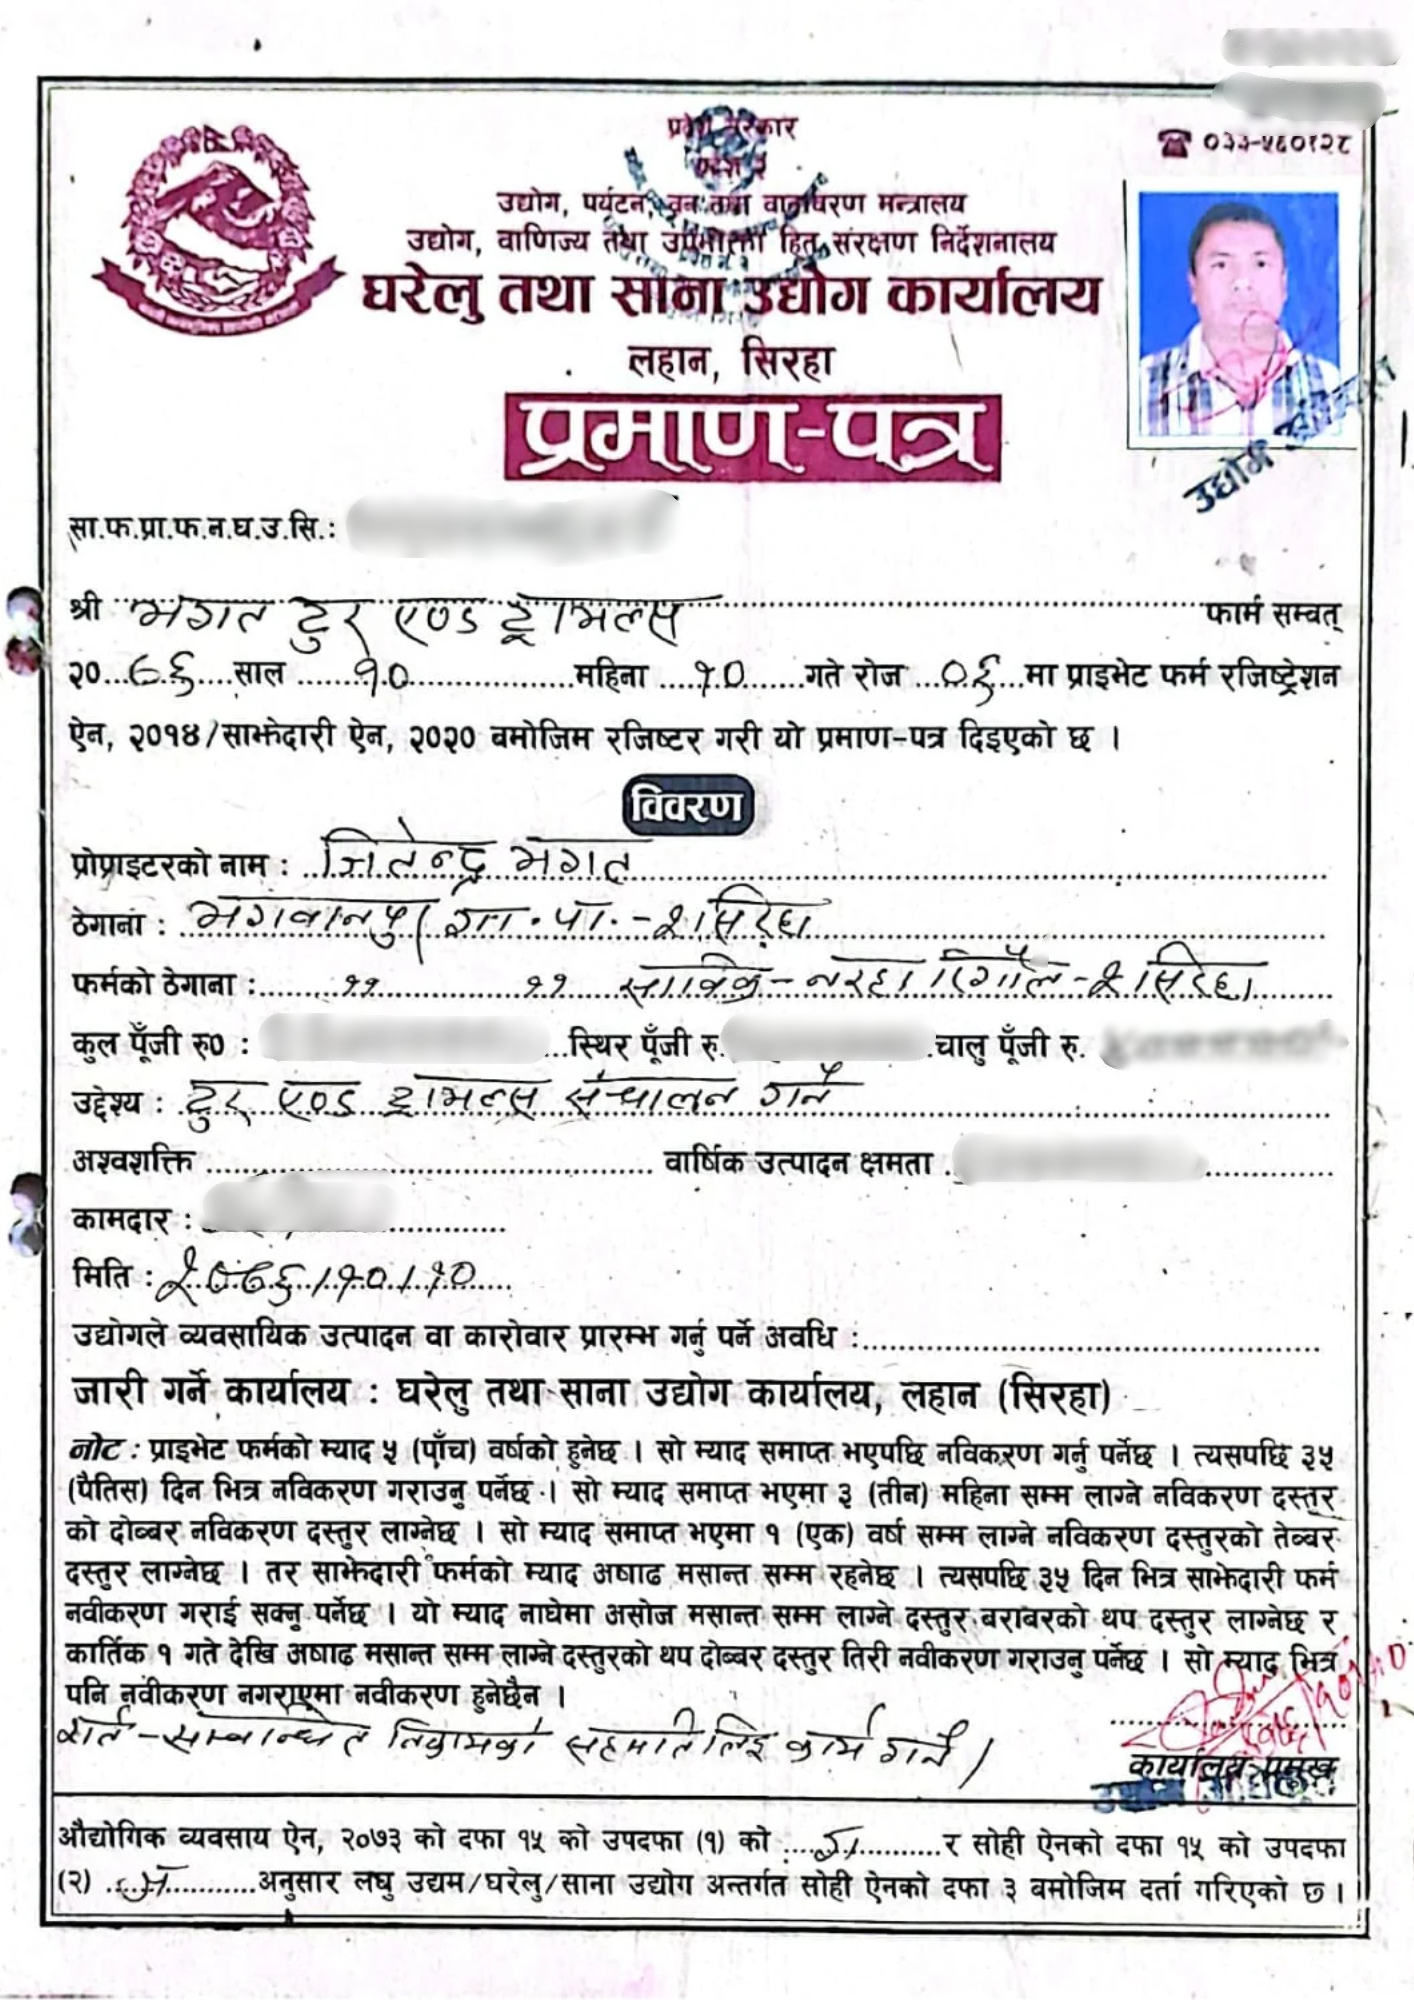
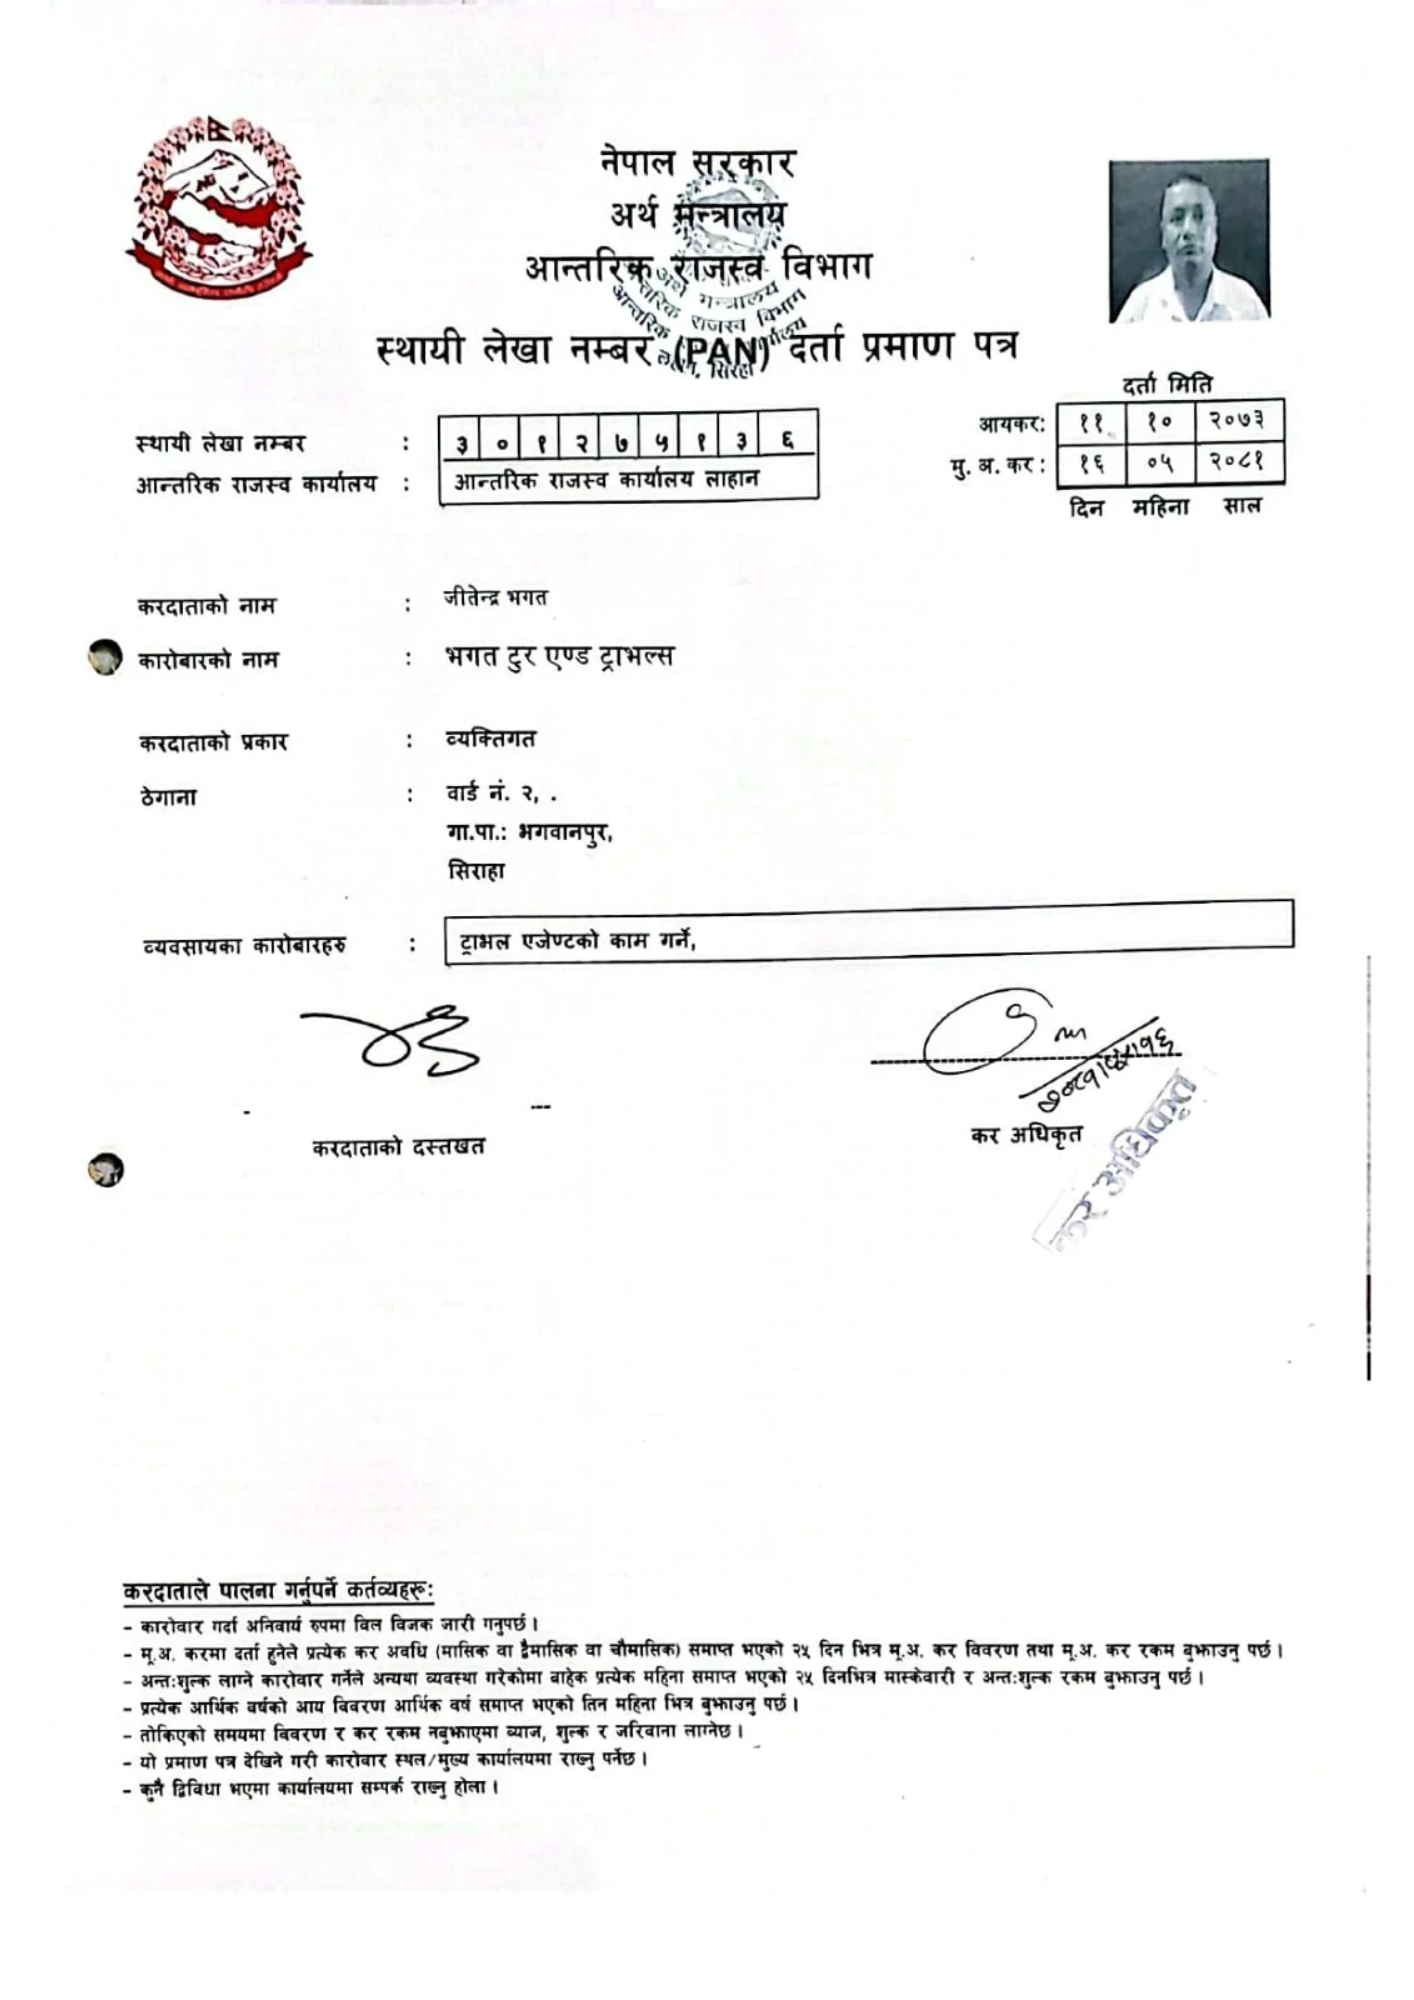
Optimized seo

diff --git a/index.html b/index.html
@@ -43,8 +43,8 @@
   <meta property="og:title" content="Bhagat Tour and Travels | Car Rental & Travel Agency in Lahan, Siraha" />
   <meta property="og:description"
     content="Looking for car rental in Lahan, Siraha? Bhagat Tour and Travels is a travel agency offering driver-based vehicle hire across Koshi, Madhesh, and Bagmati. Call 9804732000." />
-  <meta property="og:image" content="https://bhagattourandtravels.com.np/images/vehicle_image1-optimized.jpg" />
-  <meta property="og:image:alt" content="Bhagat Tour and Travels vehicle on a road in Nepal" />
+  <meta property="og:image" content="https://bhagattourandtravels.com.np/og-image.png" />
+  <meta property="og:image:alt" content="Bhagat Tour and Travels vehicle hire in Lahan, with the owner and contact details" />
 
   <!-- Twitter -->
   <meta name="twitter:card" content="summary_large_image" />
@@ -52,23 +52,50 @@
   <meta name="twitter:title" content="Bhagat Tour and Travels | Car Rental & Travel Agency in Lahan, Siraha" />
   <meta name="twitter:description"
     content="Looking for car rental in Lahan, Siraha? Bhagat Tour and Travels is a travel agency offering driver-based vehicle hire across Koshi, Madhesh, and Bagmati. Call 9804732000." />
-  <meta name="twitter:image" content="https://bhagattourandtravels.com.np/images/vehicle_image1-optimized.jpg" />
+  <meta name="twitter:image" content="https://bhagattourandtravels.com.np/og-image.png" />
   <meta name="google-site-verification" content="kK1qMVujfAf2Z9mD3gB9D1ryBvIWhVzkwcPm2iUmzEs" />
 
-  <title>Bhagat Tour and Travels | Car Rental &amp; Travel Agency in Lahan, Siraha</title>
+  <title>Bhagat Tour and Travels | Car Rental &amp; Travel Agency in Lahan</title>
   <script type="application/ld+json">
     {
       "@context": "https://schema.org",
-      "@type": "TravelAgency",
+      "@type": ["TravelAgency"],
+      "@id": "https://bhagattourandtravels.com.np/#home",
       "name": "Bhagat Tour and Travels",
       "url": "https://bhagattourandtravels.com.np/",
+      "description": "Vehicle rental and tour services in Siraha, Lahan and across Madhesh, Koshi and Bagmati provinces.",
       "image": "https://bhagattourandtravels.com.np/images/vehicle_image1-optimized.jpg",
       "telephone": "+9779804732000",
       "email": "vagatjitendra@gmail.com",
-      "areaServed": ["Lahan", "Siraha", "Koshi Province", "Madhesh Province", "Bagmati Province"],
+      "priceRange": "NPR 3000–15000 per day",
+      "address": {
+        "@type": "PostalAddress",
+        "streetAddress": "Bhagawanpur-02",
+        "addressLocality": "Bhagawanpur",
+        "addressRegion": "Madhesh Province",
+        "postalCode": "56500",
+        "addressCountry": "NP"
+      },
+      "geo": {
+        "@type": "GeoCoordinates",
+        "latitude": 26.60513,
+        "longitude": 86.46328
+      },
+      "openingHoursSpecification": {
+        "@type": "OpeningHoursSpecification",
+        "dayOfWeek": ["Monday", "Tuesday", "Wednesday", "Thursday", "Friday", "Saturday", "Sunday"],
+        "opens": "00:00",
+        "closes": "23:59"
+      },
+      "areaServed": [
+        { "@type": "City", "name": "Lahan" },
+        { "@type": "AdministrativeArea", "name": "Siraha" },
+        { "@type": "AdministrativeArea", "name": "Madhesh Province" },
+        { "@type": "AdministrativeArea", "name": "Koshi Province" },
+        { "@type": "AdministrativeArea", "name": "Bagmati Province" }
+      ],
       "sameAs": [
-        "https://www.facebook.com/bhagattourandtravels",
-        "https://www.instagram.com/j_eetendra030/"
+        "https://www.facebook.com/bhagattourandtravels"
       ]
     }
   </script>
@@ -79,7 +106,7 @@
     <div class="page-skeleton" role="status" aria-label="Loading page">
       <div class="sk-nav"><i></i></div>
       <main>
-        <section class="sk-section sk-feature"><i class="sk-line sk-short"></i><i class="sk-title"></i><i class="sk-line"></i><i class="sk-line sk-short"></i></section>
+        <section class="sk-section sk-feature"><i class="sk-line sk-short"></i><h1>Car Rental in Lahan</h1><i class="sk-line"></i><i class="sk-line sk-short"></i></section>
         <section class="sk-section"><i class="sk-line sk-short"></i><i class="sk-title"></i><div class="sk-grid"><i class="sk-card"></i><i class="sk-card"></i><i class="sk-card"></i><i class="sk-card"></i></div></section>
         <section class="sk-section"><i class="sk-line sk-short"></i><i class="sk-title"></i><div class="sk-grid"><i class="sk-card"></i><i class="sk-card"></i><i class="sk-card"></i><i class="sk-card"></i></div></section>
         <section class="sk-section"><i class="sk-line sk-short"></i><i class="sk-title"></i><i class="sk-line"></i><i class="sk-line"></i><i class="sk-line sk-short"></i></section>

diff --git a/src/components/Recommendations.jsx b/src/components/Recommendations.jsx
@@ -5,12 +5,12 @@ const letters = [
   {
     id: 1,
     src: "/Cert/save-the-children-recommendation-optimized.jpg",
-    alt: "Recommendation Letter from Save the Children",
+    alt: "Recommendation letter from Save the Children, Bardibas Field Office, dated 21 April 2026, confirming Bhagat Tour & Travels of Lahan provided satisfactory passenger vehicle services in 2021 and 2022",
   },
   {
     id: 2,
     src: "/Cert/world-vision-recommendation-optimized.jpg",
-    alt: "Recommendation Letter from World Vision",
+    alt: "World Vision International Nepal certificate of appreciation, dated 24 April 2026, praising Bhagat Tour and Travels of Lahan for travel services under a long-term agreement with WVI Nepal Bardibas since January 2021",
   },
 ];
 

diff --git a/src/utilis/opengraph.js b/src/utilis/opengraph.js
@@ -1,5 +1,5 @@
 const siteUrl = "https://bhagattourandtravels.com.np/";
-const socialImage = `${siteUrl}images/vehicle_image1-optimized.jpg`;
+const socialImage = `${siteUrl}og-image.png`;
 
 export function applyOpenGraph(metadata) {
   Object.entries(metadata).forEach(([property, content]) => {
@@ -24,6 +24,6 @@ export function notFoundOpenGraph(pathname) {
     "og:title": "Page Not Found | Bhagat Tour and Travels",
     "og:description": "This page could not be found on the Bhagat Tour and Travels website.",
     "og:image": socialImage,
-    "og:image:alt": "Bhagat Tour and Travels vehicle on a road in Nepal",
+    "og:image:alt": "Bhagat Tour and Travels vehicle hire in Lahan, with the owner and contact details",
   };
 }

diff --git a/src/App.jsx b/src/App.jsx
@@ -22,8 +22,8 @@ const homeOpenGraph = {
   'og:url': 'https://bhagattourandtravels.com.np/',
   'og:title': homeTitle,
   'og:description': homeDescription,
-  'og:image': 'https://bhagattourandtravels.com.np/images/vehicle_image1-optimized.jpg',
-  'og:image:alt': 'Bhagat Tour and Travels vehicle on a road in Nepal',
+  'og:image': 'https://bhagattourandtravels.com.np/og-image.png',
+  'og:image:alt': 'Bhagat Tour and Travels vehicle hire in Lahan, with the owner and contact details',
 };
 
 export default function App() {
